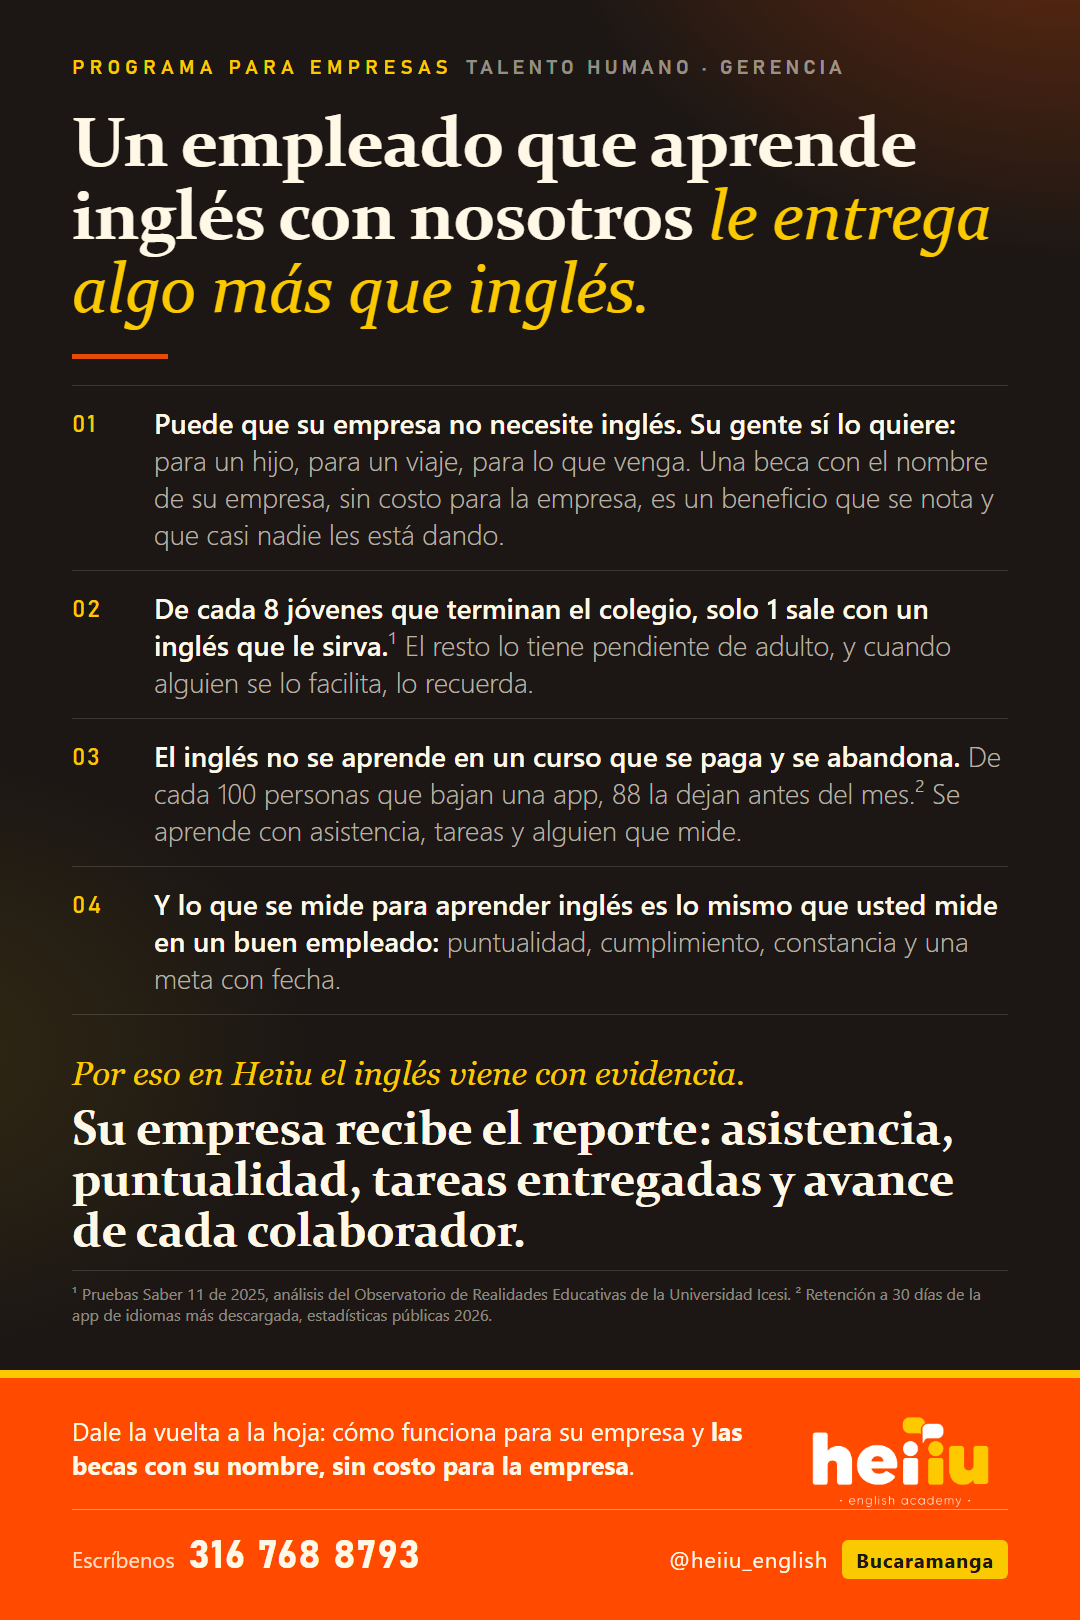
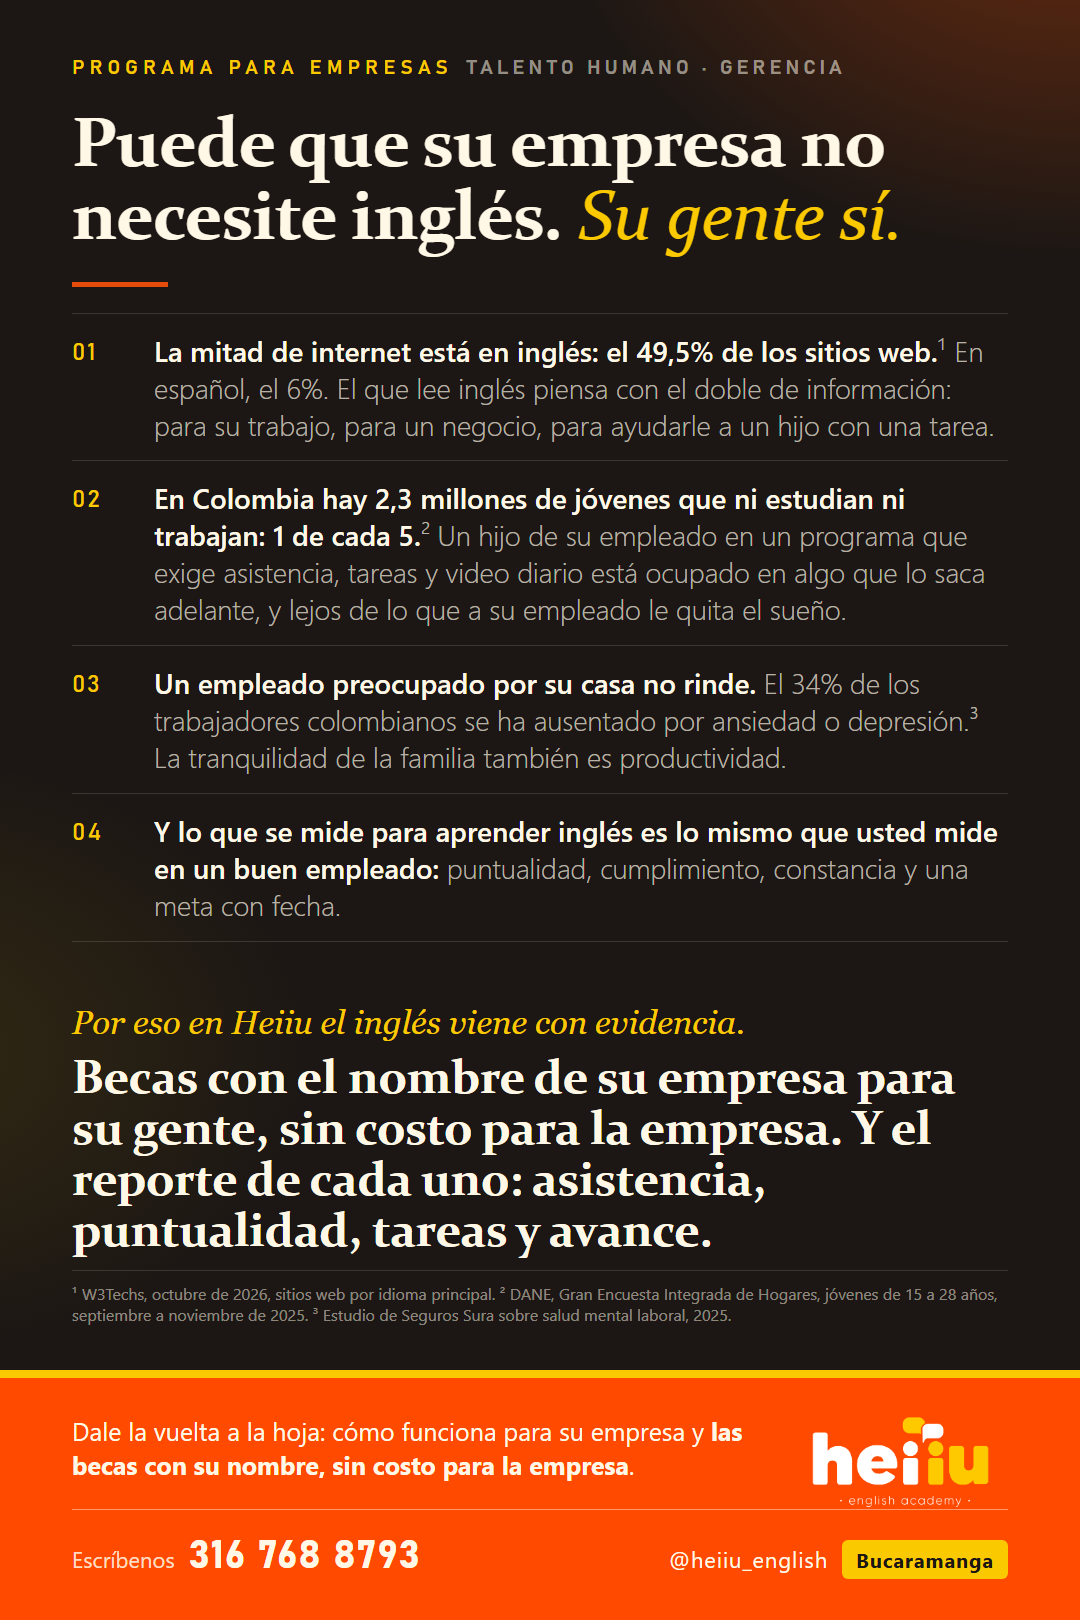
Pieza empresas frente, angulo de bienestar: la mitad de internet en ingles (W3Techs), 1 de cada 5 jovenes ni estudia ni trabaja (DANE), 34% de ausencias por salud mental (Sura); becas para su gente sin costo y reporte

diff --git a/generadores/comercial/gen_piezas_conciencia.py b/generadores/comercial/gen_piezas_conciencia.py
@@ -237,17 +237,17 @@ PIEZAS = {
              ('PARA TU EMPRESA', 'Becas con el nombre de la clínica, el consultorio o la empresa para su equipo, <b>sin costo para la empresa</b>. Pregunta por el programa de alianzas.', False)],
         band='Grupos para equipos o programa individual. <b>Escríbenos y agenda tu asesoría.</b>',
         band_px=290),
-    'EMPRESAS_FRENTE': dict(   # pedido del gerente de alianzas 25/10/2026: lo que la empresa recibe ademas del ingles (habitos medidos y reporte), para presentar en empresas; de usted
+    'EMPRESAS_FRENTE': dict(   # pedido del gerente de alianzas 25/10/2026; angulo de gerencia: bienestar del empleado y su familia, que vuelve a la empresa; de usted
         compact=True, label='PROGRAMA PARA EMPRESAS', sub='TALENTO HUMANO · GERENCIA',
-        h1='Un empleado que aprende inglés con nosotros <em>le entrega algo más que inglés.</em>',
-        st=[('<b>Puede que su empresa no necesite inglés. Su gente sí lo quiere:</b> para un hijo, para un viaje, para lo que venga. Una beca con el nombre de su empresa, sin costo para la empresa, es un beneficio que se nota y que casi nadie les está dando.'),
-            ('<b>De cada 8 jóvenes que terminan el colegio, solo 1 sale con un inglés que le sirva.</b>¹ El resto lo tiene pendiente de adulto, y cuando alguien se lo facilita, lo recuerda.'),
-            ('<b>El inglés no se aprende en un curso que se paga y se abandona.</b> De cada 100 personas que bajan una app, 88 la dejan antes del mes.² Se aprende con asistencia, tareas y alguien que mide.'),
+        h1='Puede que su empresa no necesite inglés. <em>Su gente sí.</em>',
+        st=[('<b>La mitad de internet está en inglés: el 49,5% de los sitios web.</b>¹ En español, el 6%. El que lee inglés piensa con el doble de información: para su trabajo, para un negocio, para ayudarle a un hijo con una tarea.'),
+            ('<b>En Colombia hay 2,3 millones de jóvenes que ni estudian ni trabajan: 1 de cada 5.</b>² Un hijo de su empleado en un programa que exige asistencia, tareas y video diario está ocupado en algo que lo saca adelante, y lejos de lo que a su empleado le quita el sueño.'),
+            ('<b>Un empleado preocupado por su casa no rinde.</b> El 34% de los trabajadores colombianos se ha ausentado por ansiedad o depresión.³ La tranquilidad de la familia también es productividad.'),
             ('<b>Y lo que se mide para aprender inglés es lo mismo que usted mide en un buen empleado:</b> puntualidad, cumplimiento, constancia y una meta con fecha.')],
         lead='Por eso en Heiiu el inglés viene con evidencia.',
-        big='Su empresa recibe el reporte: asistencia, puntualidad, tareas entregadas y avance de cada colaborador.',
+        big='Becas con el nombre de su empresa para su gente, sin costo para la empresa. Y el reporte de cada uno: asistencia, puntualidad, tareas y avance.',
         big2='',
-        fn='¹ Pruebas Saber 11 de 2025, análisis del Observatorio de Realidades Educativas de la Universidad Icesi. ² Retención a 30 días de la app de idiomas más descargada, estadísticas públicas 2026.',
+        fn='¹ W3Techs, octubre de 2026, sitios web por idioma principal. ² DANE, Gran Encuesta Integrada de Hogares, jóvenes de 15 a 28 años, septiembre a noviembre de 2025. ³ Estudio de Seguros Sura sobre salud mental laboral, 2025.',
         band='Dale la vuelta a la hoja: cómo funciona para su empresa y <b>las becas con su nombre, sin costo para la empresa</b>.',
         band_px=250),
     'EMPRESAS_RESPALDO': dict(
